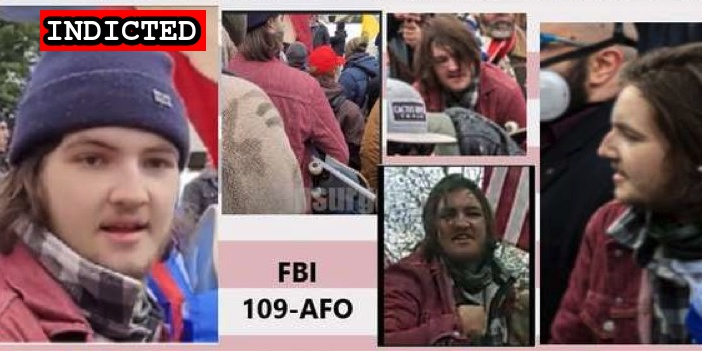
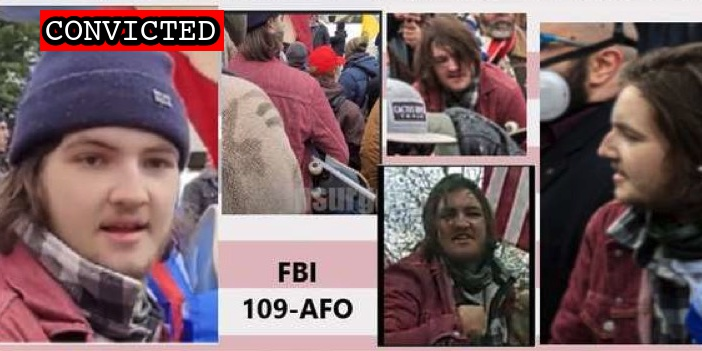
Latest import

Changed region(s): [[0.0598, 0.0285, 0.3291, 0.1709]]

diff --git a/commands/suspect-import.ts b/commands/suspect-import.ts
@@ -554,6 +554,7 @@ const linkType = (description: string, lastName?: string) => {
       return "Order Revoking Bond";
 
     case /Order Denying Defense Motion to Modify Conditions of Release/.test(description):
+    case /Order Denying Motion to Reconsider Bond/.test(description):
       return "Order Denying Defense Motion to Modify Conditions of Release";
 
     case /Initial Appearance Hearing Transcript/.test(description):
@@ -633,6 +634,7 @@ const linkType = (description: string, lastName?: string) => {
     case /Government Opposition to Motion for Reconsideration of Motion for Conditional Release/.test(description):
     case /Government Opposition to Motion for Reconsideration of Revocation of Bond/.test(description):
     case /Government Opposition to Motion for Reconsideration of Pretrial Detention/.test(description):
+    case /Government Response in Opposition to Defense Motion to Reconsider Bond/.test(description):
       return "Government Opposition to Reconsideration of Release";
 
     case /Supplement to Government's Opposition to Defendant's Motion for Conditional Release/.test(description):
@@ -677,6 +679,9 @@ const linkType = (description: string, lastName?: string) => {
 
     case /Memorandum Opinion Rejecting Defense Motion to Correct Sentence/.test(description):
       return "Memorandum Opinion Rejecting Defense Motion to Correct Sentence";
+
+    case /Government Response to Amended Motion to Suppress/.test(description):
+      return "Government Response to Amended Motion to Suppress";
 
     // defense motions
     case /Defendant's Notice of Government's Violation of Due Process Protections Act/.test(description):

diff --git a/docs/_suspects/grady-owens.md b/docs/_suspects/grady-owens.md
@@ -4,11 +4,11 @@ lastName: Owens
 hashtag: CranberryOaf
 aka:
 residence: Florida
-status: Indicted
+status: Convicted
 date: 2021-04-01
 charged: 2021-04-01
 indicted: 2021-04-07
-convicted:
+convicted: 2022-11-10
 acquitted:
 sentenced:
 dismissed:
@@ -31,7 +31,7 @@ raid:
 perpwalk:
 quote:
 title: Grady Owens charged on April 1, 2021
-description: Click for latest case details. Suspects innocent until proven guilty.
+description: Convicted on November 3, 2022. Click for latest case details.
 author: seditiontrack
 layout: suspect
 published: true
@@ -39,20 +39,27 @@ caseNumber: 21-cr-0286
 caseName: USA v. OWENS
 judge: Beryl A. Howell
 videos:
-- title: Defense Exhibit A.mp4 (0:51:59)
-  url: https://propublica-data-j6cases-videos.s3.us-east-1.amazonaws.com/51d50c60ce28013960702cde48001122.mp4
-- title: Government Exhibit 3 - Rotunda doors.mp4 (0:02:56)
-  url: https://propublica-data-j6cases-videos.s3.us-east-1.amazonaws.com/df9b1190ce29013960702cde48001122.mp4
-- title: Government Exhibit 2.mp4 (0:05:17)
-  url: https://propublica-data-j6cases-videos.s3.us-east-1.amazonaws.com/0b75f050ce2a013960702cde48001122.mp4
-- title: Government Exhibit 4 - Rotunda doors.mp4 (0:02:37)
-  url: https://propublica-data-j6cases-videos.s3.us-east-1.amazonaws.com/f741d9a0ce29013960702cde48001122.mp4
+  - title: Defense Exhibit A.mp4 (0:51:59)
+    url: https://propublica-data-j6cases-videos.s3.us-east-1.amazonaws.com/51d50c60ce28013960702cde48001122.mp4
+  - title: Government Exhibit 3 - Rotunda doors.mp4 (0:02:56)
+    url: https://propublica-data-j6cases-videos.s3.us-east-1.amazonaws.com/df9b1190ce29013960702cde48001122.mp4
+  - title: Government Exhibit 2.mp4 (0:05:17)
+    url: https://propublica-data-j6cases-videos.s3.us-east-1.amazonaws.com/0b75f050ce2a013960702cde48001122.mp4
+  - title: Government Exhibit 4 - Rotunda doors.mp4 (0:02:37)
+    url: https://propublica-data-j6cases-videos.s3.us-east-1.amazonaws.com/f741d9a0ce29013960702cde48001122.mp4
 charges:
+  - code: 18 USC § 111(a)(1)
+    title: Assaulting, resisting, or impeding certain officers or employees
+    url: https://www.law.cornell.edu/uscode/text/18/111
+    felony: true
 sentence:
 ---
+
 - [News Report](https://www.orlandosentinel.com/news/crime/os-ne-capitol-riot-grady-owens-denied-release-20210402-6c6ehq5imva3dhaud6hujkjgoy-story.html)
 - [Complaint](https://www.justice.gov/usao-dc/case-multi-defendant/file/1382531/download)
 - [Statement of Facts](https://www.justice.gov/usao-dc/case-multi-defendant/file/1382536/download)
-- [Indictment](https://www.justice.gov/usao-dc/case-multi-defendant/file/1461456/download)
+- [Indictment](https://www.justice.gov/usao-dc/case-multi-defendant/file/1551276/download)
 - [Bodycam Evidence (Video)](https://twitter.com/ryanjreilly/status/1407812891730976783)
 - [Detention Order](https://extremism.gwu.edu/sites/g/files/zaxdzs2191/f/Grady%20Owens%20Memorandum%20Opinion%20Granting%20Defense%20Motion%20for%20Pretrial%20Release.pdf)
+- [Plea Agreement](https://www.justice.gov/usao-dc/case-multi-defendant/file/1551266/download)
+- [Statement of Offense](https://www.justice.gov/usao-dc/case-multi-defendant/file/1551271/download)

diff --git a/docs/_suspects/jason-owens.md b/docs/_suspects/jason-owens.md
@@ -4,11 +4,11 @@ lastName: Owens
 hashtag: CactusRopes
 aka:
 residence: Texas
-status: Indicted
+status: Convicted
 date: 2021-04-16
 charged: 2021-04-16
 indicted: 2021-11-17
-convicted:
+convicted: 2022-11-10
 acquitted:
 sentenced:
 dismissed:
@@ -31,7 +31,7 @@ raid:
 perpwalk:
 quote:
 title: Jason Owens arrested on April 16, 2021
-description: Click for latest case details. Suspects innocent until proven guilty.
+description: Convicted on November 3, 2022. Click for latest case details.
 author: seditiontrack
 layout: suspect
 published: true
@@ -40,9 +40,15 @@ caseName: USA v. OWENS
 judge: Beryl A. Howell
 videos:
 charges:
+- code: 40 USC § 5104(e)(2)(G)
+  title: Parading, demonstrating or picketing in a Capitol building
+  url: https://www.law.cornell.edu/uscode/text/40/5104
+  felony: false
 sentence:
 ---
 - [News Report](https://www.thedailybeast.com/jason-owens-father-of-skateboard-wielding-insurrectionist-charged-in-capitol-riots-feds-say)
 - [Complaint](https://www.justice.gov/usao-dc/case-multi-defendant/file/1388791/download)
 - [Statement of Facts](https://www.justice.gov/usao-dc/case-multi-defendant/file/1388796/download)
-- [Indictment](https://www.justice.gov/usao-dc/case-multi-defendant/file/1461456/download)
+- [Indictment](https://www.justice.gov/usao-dc/case-multi-defendant/file/1551286/download)
+- [Plea Agreement](https://www.justice.gov/usao-dc/case-multi-defendant/file/1551291/download)
+- [Statement of Offense](https://www.justice.gov/usao-dc/case-multi-defendant/file/1551296/download)

diff --git a/docs/_suspects/jeremy-brown.md b/docs/_suspects/jeremy-brown.md
@@ -47,3 +47,6 @@ sentence:
 - [Information](https://extremism.gwu.edu/sites/g/files/zaxdzs2191/f/Jeremy%20Brown%20Information.pdf)
 - [Detention Order](https://extremism.gwu.edu/sites/g/files/zaxdzs2191/f/Jeremy%20Brown%20Detention%20Order%20FL.pdf)
 - [Indictment](https://storage.courtlistener.com/recap/gov.uscourts.flmd.395204/gov.uscourts.flmd.395204.159.0.pdf)
+- [Government Response to Amended Motion to Suppress](https://extremism.gwu.edu/sites/g/files/zaxdzs2191/f/Jeremy%20Brown%20Govt%20Response%20to%20Amended%20Motion%20to%20Suppress%20FL.pdf)
+- [Government Opposition to Reconsideration of Release](https://extremism.gwu.edu/sites/g/files/zaxdzs2191/f/Jeremy%20Brown%20Govt%20Response%20in%20Opposition%20to%20Motion%20to%20Reconsider%20Bond%20FL.pdf)
+- [Order Denying Defense Motion to Modify Conditions of Release](https://extremism.gwu.edu/sites/g/files/zaxdzs2191/f/Jeremy%20Brown%20Order%20Denying%20Motion%20to%20Reconsider%20Bond%20FL.pdf)
